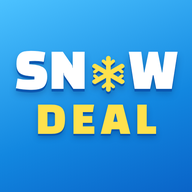
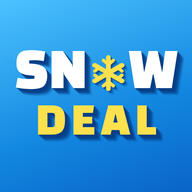
로고 입체감을 긴 그림자 방식(5번 안)으로 변경
Claude-Session: https://claude.ai/code/session_01NQLwSRwjvqa1iUZG1DvbuB

diff --git a/src/app.html b/src/app.html
@@ -192,8 +192,8 @@ h2{font-family:var(--display);font-weight:400;font-size:22px;letter-spacing:-.01
 .contact{display:grid;gap:10px;justify-items:start}
 .contact p{margin:0;font-size:14px;line-height:1.6}
 .page .bar .logo{color:#fff}
-.wm,.sp-w,.sp-d{text-shadow:0 .05em 0 #0a56b0,0 .1em .14em rgba(6,50,110,.3)}
-.wm svg,.sp-w svg{filter:drop-shadow(0 .05em 0 #0a56b0) drop-shadow(0 .09em .07em rgba(6,50,110,.28))}
+.wm,.sp-w,.sp-d{text-shadow:0.0125em 0.0125em 0 rgba(8,63,134,0.508),0.0250em 0.0250em 0 rgba(8,63,134,0.465),0.0375em 0.0375em 0 rgba(8,63,134,0.423),0.0500em 0.0500em 0 rgba(8,63,134,0.381),0.0625em 0.0625em 0 rgba(8,63,134,0.338),0.0750em 0.0750em 0 rgba(8,63,134,0.296),0.0875em 0.0875em 0 rgba(8,63,134,0.254),0.1000em 0.1000em 0 rgba(8,63,134,0.212),0.1125em 0.1125em 0 rgba(8,63,134,0.169),0.1250em 0.1250em 0 rgba(8,63,134,0.127),0.1375em 0.1375em 0 rgba(8,63,134,0.085),0.1500em 0.1500em 0 rgba(8,63,134,0.042)}
+.wm svg,.sp-w svg{filter:drop-shadow(.03em .03em 0 rgba(8,63,134,0.417)) drop-shadow(.03em .03em 0 rgba(8,63,134,0.333)) drop-shadow(.03em .03em 0 rgba(8,63,134,0.250)) drop-shadow(.03em .03em 0 rgba(8,63,134,0.167)) drop-shadow(.03em .03em 0 rgba(8,63,134,0.083))}
 .wm{display:flex;align-items:center;font-size:27px;letter-spacing:0;line-height:1}
 .wm svg{width:.78em;height:.78em;color:var(--sun);margin:0 .04em .02em}
 .wm em{font-style:normal;color:var(--sun);margin-left:.22em;letter-spacing:.06em}

diff --git a/style.css b/style.css
@@ -190,8 +190,8 @@ h2{font-family:var(--display);font-weight:400;font-size:22px;letter-spacing:-.01
 .contact{display:grid;gap:10px;justify-items:start}
 .contact p{margin:0;font-size:14px;line-height:1.6}
 .page .bar .logo{color:#fff}
-.wm,.sp-w,.sp-d{text-shadow:0 .05em 0 #0a56b0,0 .1em .14em rgba(6,50,110,.3)}
-.wm svg,.sp-w svg{filter:drop-shadow(0 .05em 0 #0a56b0) drop-shadow(0 .09em .07em rgba(6,50,110,.28))}
+.wm,.sp-w,.sp-d{text-shadow:0.0125em 0.0125em 0 rgba(8,63,134,0.508),0.0250em 0.0250em 0 rgba(8,63,134,0.465),0.0375em 0.0375em 0 rgba(8,63,134,0.423),0.0500em 0.0500em 0 rgba(8,63,134,0.381),0.0625em 0.0625em 0 rgba(8,63,134,0.338),0.0750em 0.0750em 0 rgba(8,63,134,0.296),0.0875em 0.0875em 0 rgba(8,63,134,0.254),0.1000em 0.1000em 0 rgba(8,63,134,0.212),0.1125em 0.1125em 0 rgba(8,63,134,0.169),0.1250em 0.1250em 0 rgba(8,63,134,0.127),0.1375em 0.1375em 0 rgba(8,63,134,0.085),0.1500em 0.1500em 0 rgba(8,63,134,0.042)}
+.wm svg,.sp-w svg{filter:drop-shadow(.03em .03em 0 rgba(8,63,134,0.417)) drop-shadow(.03em .03em 0 rgba(8,63,134,0.333)) drop-shadow(.03em .03em 0 rgba(8,63,134,0.250)) drop-shadow(.03em .03em 0 rgba(8,63,134,0.167)) drop-shadow(.03em .03em 0 rgba(8,63,134,0.083))}
 .wm{display:flex;align-items:center;font-size:27px;letter-spacing:0;line-height:1}
 .wm svg{width:.78em;height:.78em;color:var(--sun);margin:0 .04em .02em}
 .wm em{font-style:normal;color:var(--sun);margin-left:.22em;letter-spacing:.06em}
